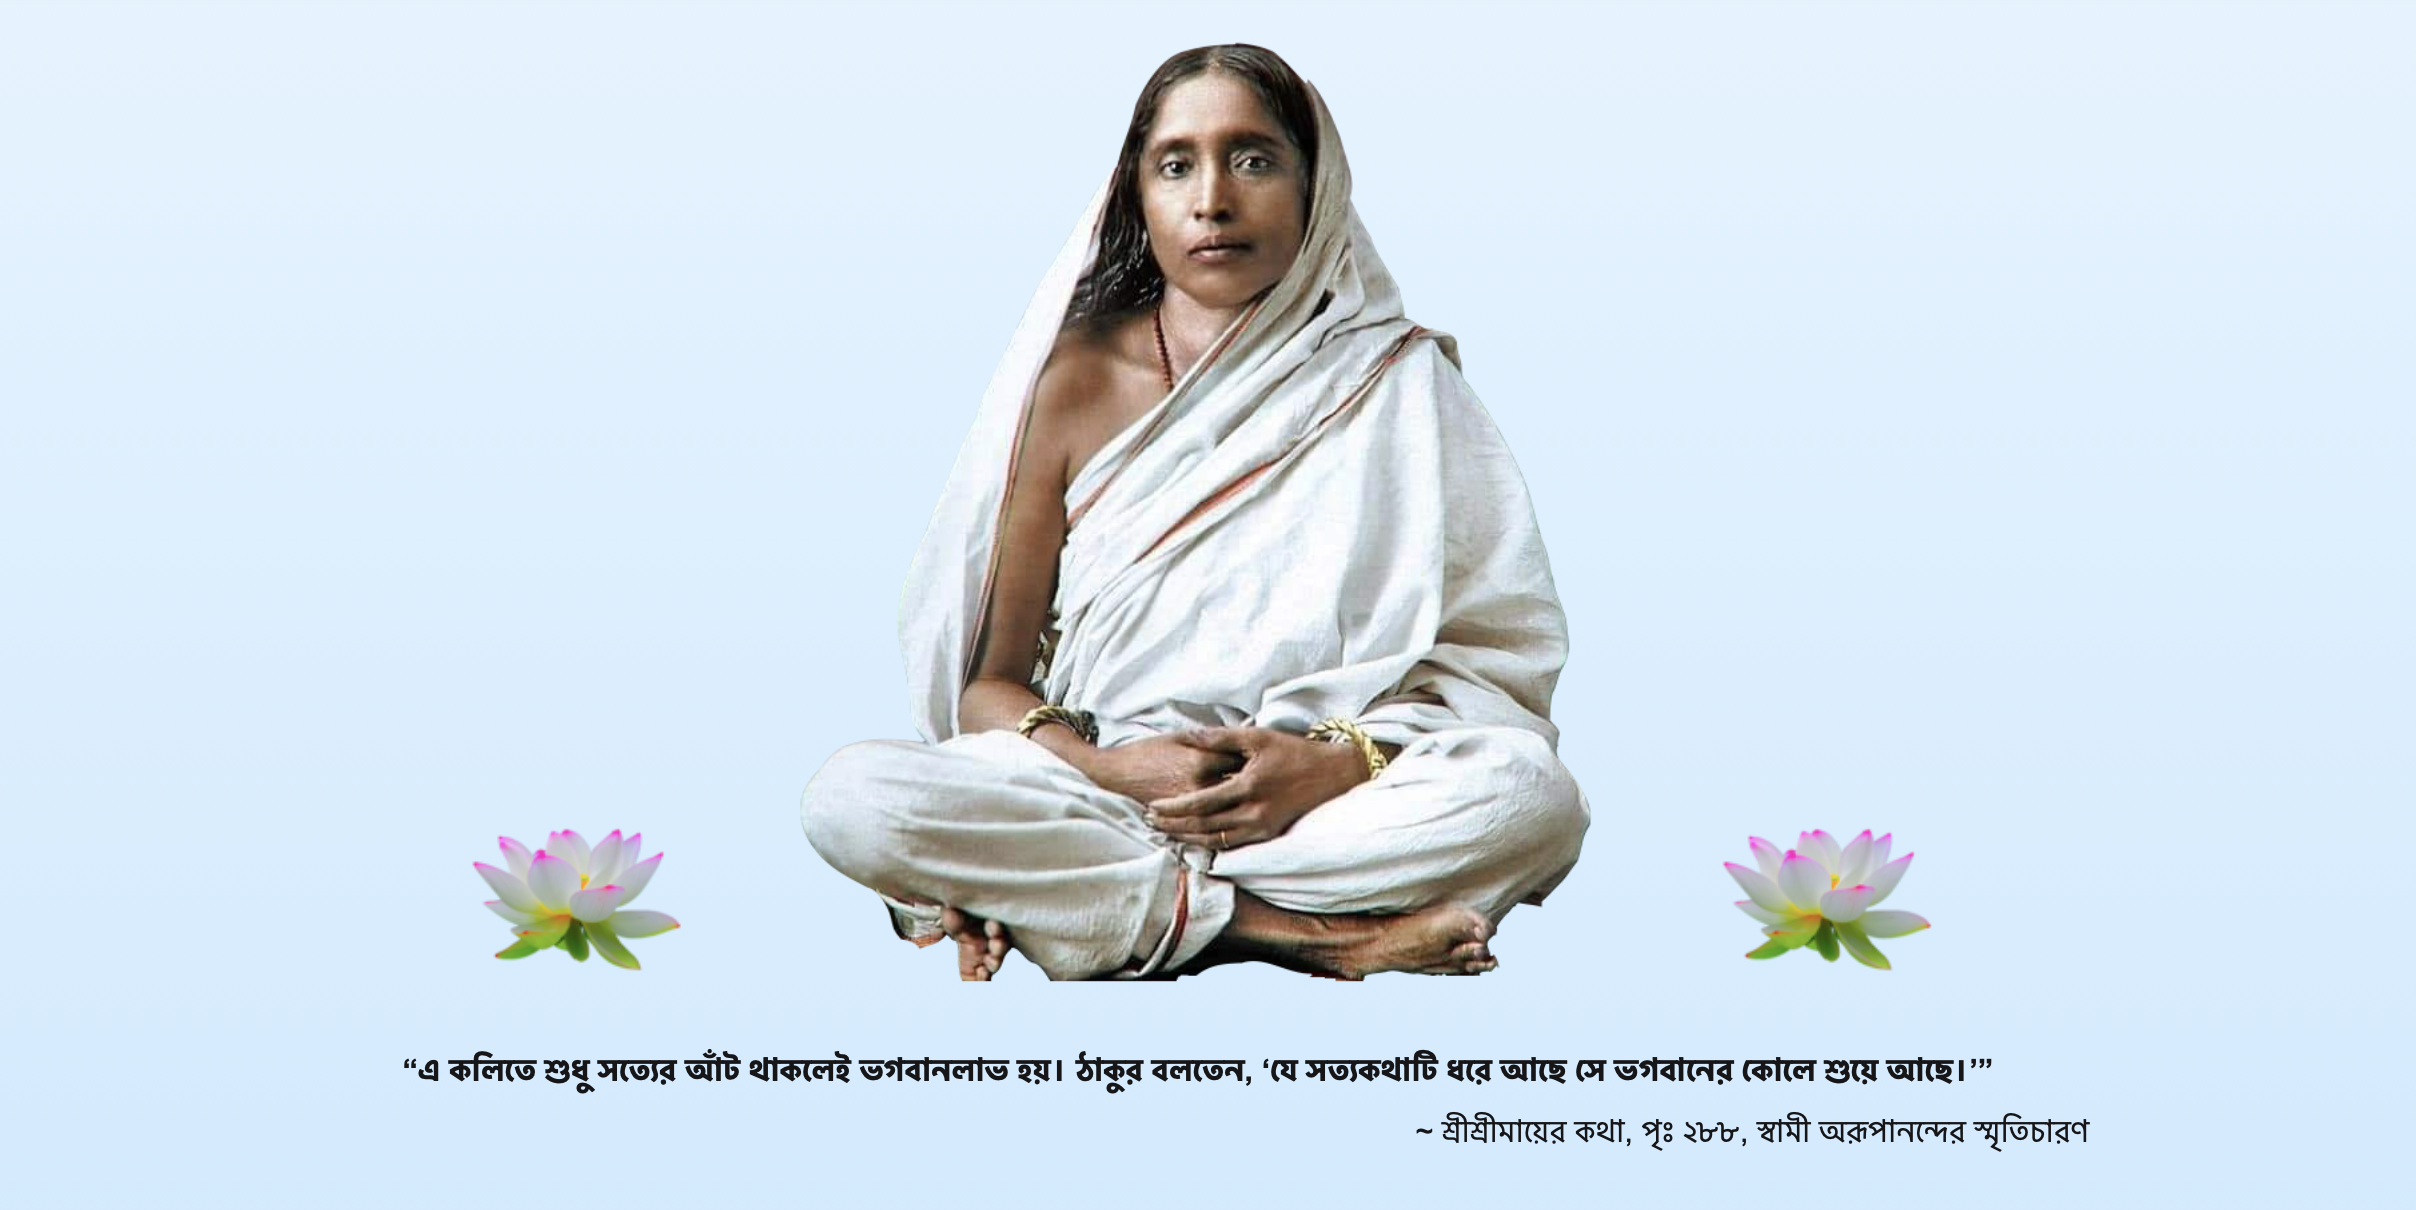
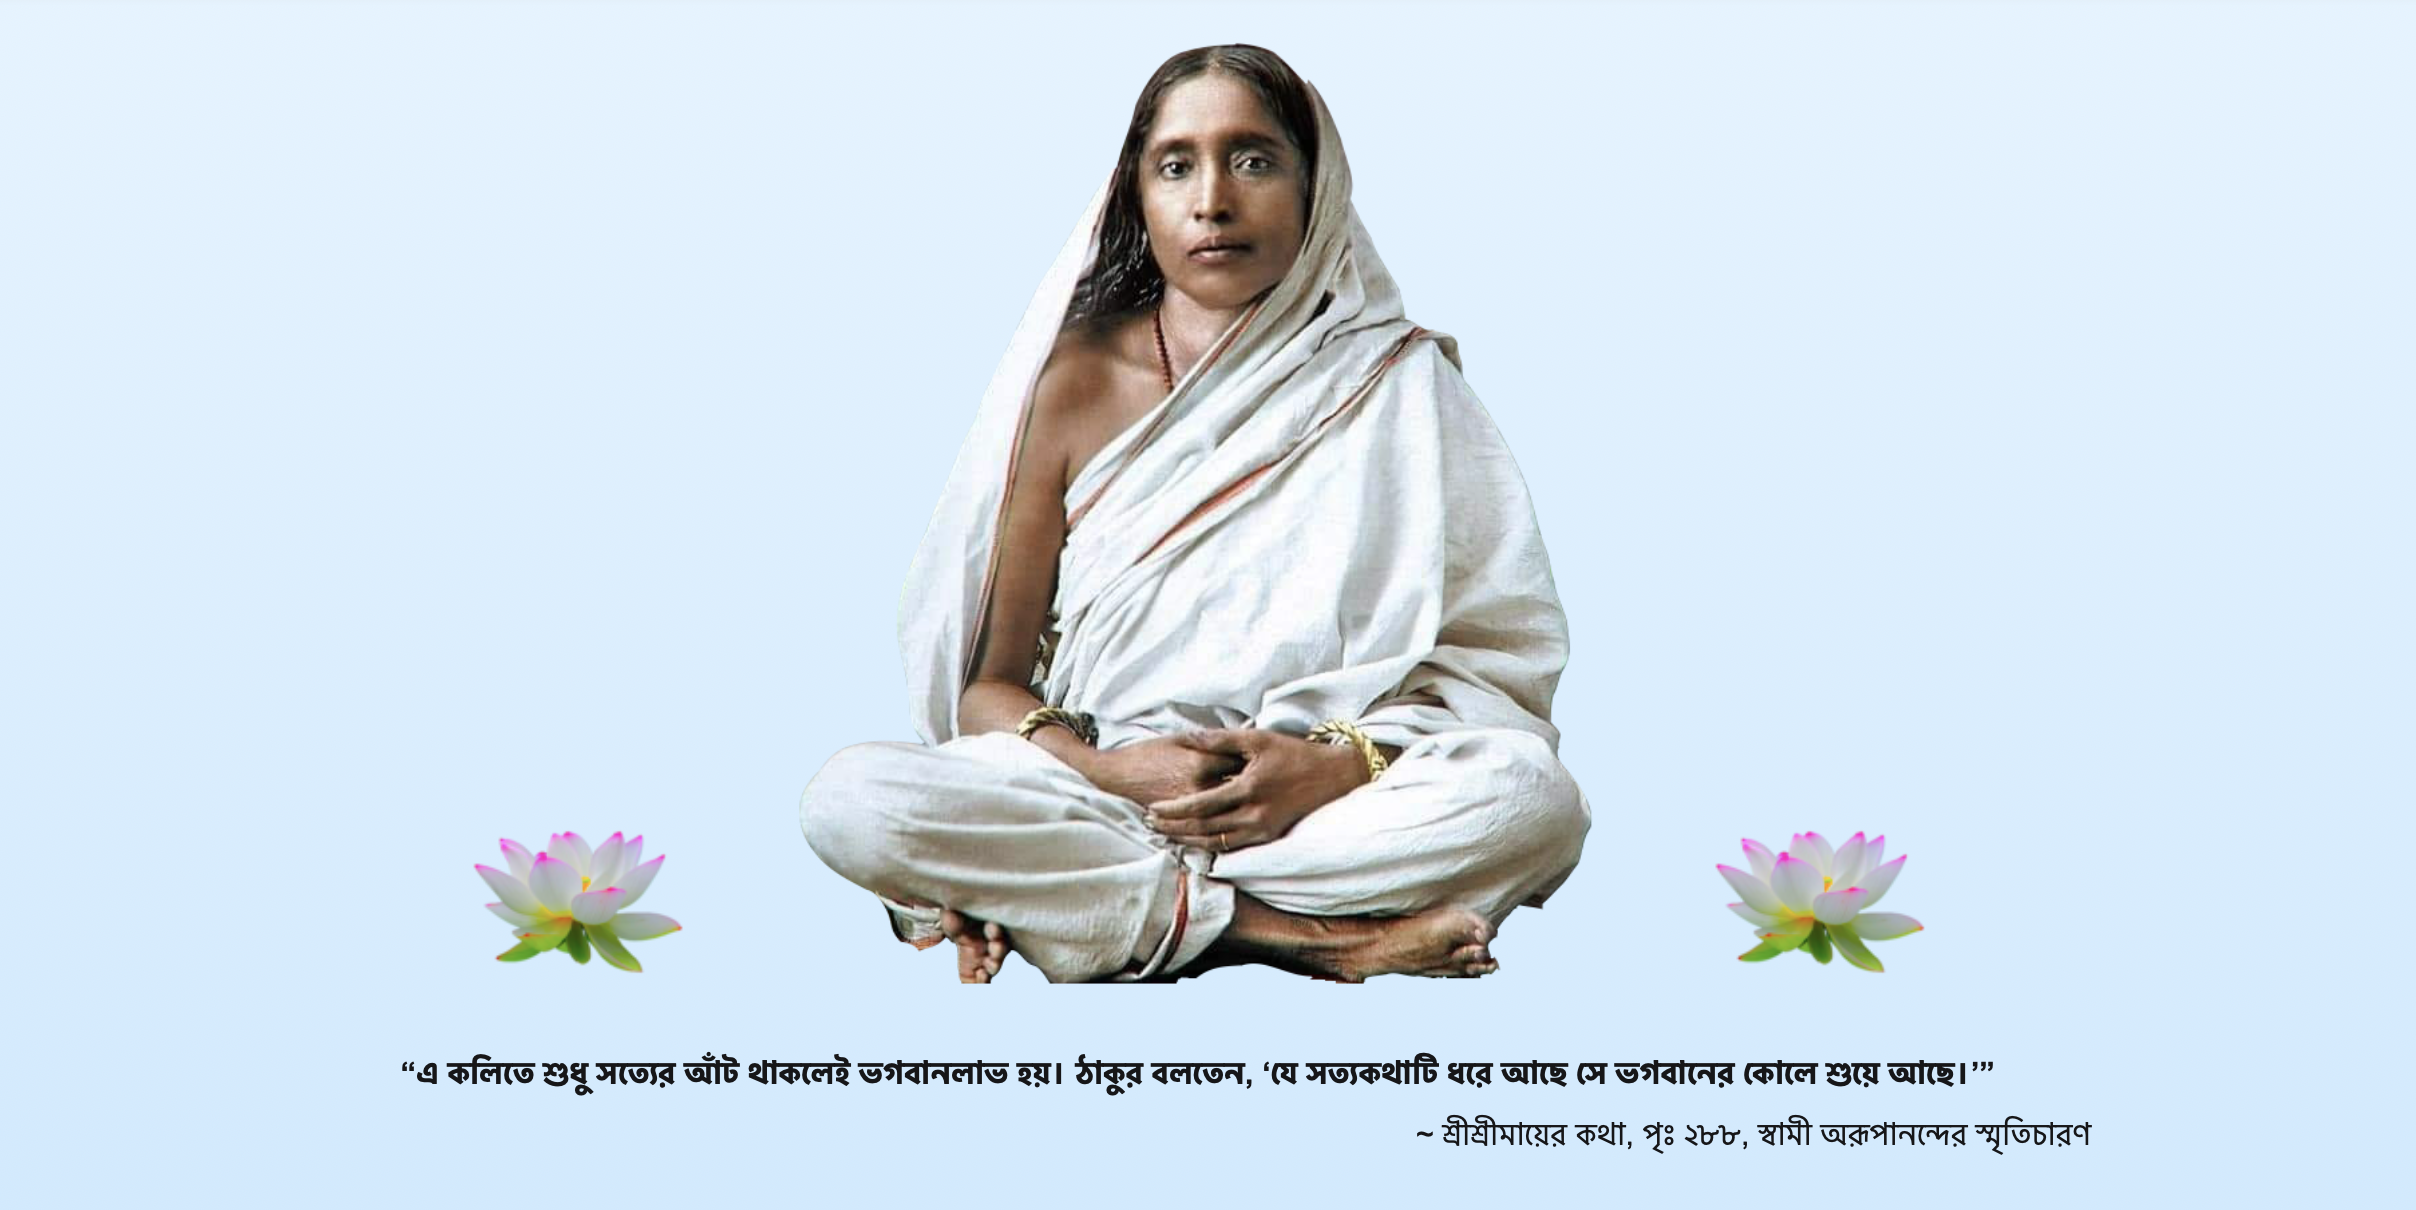
sd

diff --git a/index.html b/index.html
@@ -481,7 +481,7 @@ summary {
 <!-- <div style="position:relative;height:250px;"><img src="lotus.png" style="position:absolute;width:200px;top:-383px;right:150px;" /></div> -->
 <iframe style="border:none;overflow:hidden;position:absolute;top:470px;left:250px" scrolling="no" width="500px" height="175px" src="lotus1.png">
 </iframe>
-<iframe style="border:none;overflow:hidden;position:absolute;top:470px;right:-63px" scrolling="no" width="500px" height="175px" src="lotus1.png">
+<iframe style="border:none;overflow:hidden;position:absolute;top:470px;right:-60px" scrolling="no" width="500px" height="175px" src="lotus1.png">
 </iframe>
 <!-- Cover quote -->
 <!-- <p>&nbsp;</p> -->
@@ -550,7 +550,7 @@ if(O()){document.getElementsByTagName("head")[0].appendChild(P(opts_.cselibVersi
   },
   "protocol": "https",
   "rawCss": ".gsc-control-cse{font-family:arial, sans-serif}.gsc-control-cse .gsc-table-result{font-family:arial, sans-serif}.gsc-refinementsGradient{background:linear-gradient(to left,rgba(255,255,255,1),rgba(255,255,255,0))}.gsc-control-cse{border-color:#FFFFFF;background-color:#FFFFFF}input.gsc-input,.gsc-input-box,.gsc-input-box-hover,.gsc-input-box-focus{border-color:#DFE1E5}.gsc-search-button-v2,.gsc-search-button-v2:hover,.gsc-search-button-v2:focus{border-color:#FFFFFF;background-color:#FFFFFF;background-image:none;filter:none}.gsc-search-button-v2 svg{fill:#666666}.gsc-tabHeader.gsc-tabhActive,.gsc-refinementHeader.gsc-refinementhActive{color:#1A73E8;border-color:#1A73E8;background-color:#FFFFFF}.gsc-tabHeader.gsc-tabhInactive,.gsc-refinementHeader.gsc-refinementhInactive{color:#666666;border-color:#666666;background-color:#FFFFFF}.gsc-webResult.gsc-result,.gsc-results .gsc-imageResult{border-color:#FFFFFF;background-color:#FFFFFF}.gsc-webResult.gsc-result:hover{border-color:#FFFFFF;background-color:#FFFFFF}.gs-webResult.gs-result a.gs-title:link,.gs-webResult.gs-result a.gs-title:link b,.gs-imageResult a.gs-title:link,.gs-imageResult a.gs-title:link b{color:#1155CC}.gs-webResult.gs-result a.gs-title:visited,.gs-webResult.gs-result a.gs-title:visited b,.gs-imageResult a.gs-title:visited,.gs-imageResult a.gs-title:visited b{color:#1155CC}.gs-webResult.gs-result a.gs-title:hover,.gs-webResult.gs-result a.gs-title:hover b,.gs-imageResult a.gs-title:hover,.gs-imageResult a.gs-title:hover b{color:#1155CC}.gs-webResult.gs-result a.gs-title:active,.gs-webResult.gs-result a.gs-title:active b,.gs-imageResult a.gs-title:active,.gs-imageResult a.gs-title:active b{color:#1155CC}.gsc-cursor-page{color:#1155CC}a.gsc-trailing-more-results:link{color:#1155CC}.gs-webResult:not(.gs-no-results-result):not(.gs-error-result) .gs-snippet,.gs-fileFormatType{color:#333333}.gs-webResult div.gs-visibleUrl{color:#009933}.gs-webResult div.gs-visibleUrl-short{color:#009933}.gs-webResult div.gs-visibleUrl-short{display:none}.gs-webResult div.gs-visibleUrl-long{display:none}.gs-webResult div.gs-visibleUrl-breadcrumb{display:block}.gs-promotion div.gs-visibleUrl-short{display:none}.gs-promotion div.gs-visibleUrl-long{display:block}.gs-promotion div.gs-visibleUrl-breadcrumb{display:none}.gsc-cursor-box{border-color:#FFFFFF}.gsc-results .gsc-cursor-box .gsc-cursor-page{border-color:#666666;background-color:#FFFFFF;color:#666666}.gsc-results .gsc-cursor-box .gsc-cursor-current-page{border-color:#1A73E8;background-color:#FFFFFF;color:#1A73E8}.gsc-webResult.gsc-result.gsc-promotion{border-color:#FFFFFF;background-color:#F6F6F6}.gsc-completion-title{color:#1155CC}.gsc-completion-snippet{color:#333333}.gs-promotion a.gs-title:link,.gs-promotion a.gs-title:link *,.gs-promotion .gs-snippet a:link{color:#1155CC}.gs-promotion a.gs-title:visited,.gs-promotion a.gs-title:visited *,.gs-promotion .gs-snippet a:visited{color:#1155CC}.gs-promotion a.gs-title:hover,.gs-promotion a.gs-title:hover *,.gs-promotion .gs-snippet a:hover{color:#1155CC}.gs-promotion a.gs-title:active,.gs-promotion a.gs-title:active *,.gs-promotion .gs-snippet a:active{color:#1155CC}.gs-promotion .gs-snippet,.gs-promotion .gs-title .gs-promotion-title-right,.gs-promotion .gs-title .gs-promotion-title-right *{color:#333333}.gs-promotion .gs-visibleUrl,.gs-promotion .gs-visibleUrl-short{color:#009933}.gcsc-find-more-on-google{color:#1155CC}.gcsc-find-more-on-google-magnifier{fill:#1155CC}",
-  "cse_token": "AJvRUv0F2ACrA-Mo8fpgkUrVX_tD:1615033689165",
+  "cse_token": "AJvRUv005MNVNixflp4f3qscTkSq:1615034021988",
   "isHostedPage": false,
   "exp": ["csqr", "cc"],
   "cselibVersion": "323d4b81541ddb5b",
